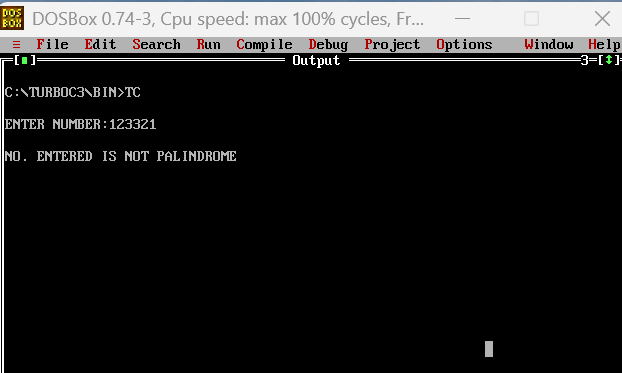
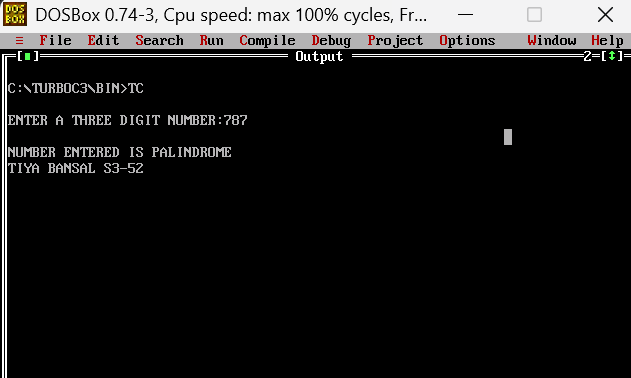
updating file

Changed region(s): [[0.0, 0.0, 1.0, 1.0], [0.7942, 0.3244, 0.8248, 0.3834], [0.7637, 0.9142, 0.7942, 0.9732]]

diff --git a/PALINDRO.C b/PALINDRO.C
@@ -1,20 +1,18 @@
 #include <stdio.h>
 int main()
 {
-	int num,rev,org,rem ;
-	printf("\nENTER NUMBER:");
+	int num,first_digit,last_digit ;
+	printf("\nENTER A THREE DIGIT NUMBER:");
 	scanf("%d",&num);
-	org=num;
-	while(num!=0){
-		rem=num%10;
-		rev=rev*10+rem;
-		num=num/10;
-	}
-	if(rev==org)
-	printf("\nNO. ENTERED IS PALINDROME");
+	first_digit = num/100;
+	last_digit = num%10;
+	if(first_digit==last_digit)
+	printf("\nNUMBER ENTERED IS PALINDROME");
 	else
-	printf("\nNO. ENTERED IS NOT PALINDROME");
+	printf("\nNUMBER ENTERED IS NOT PALINDROME");
 
 
+
+	printf("\nTIYA BANSAL S3-52");
 	return 0;
 }
